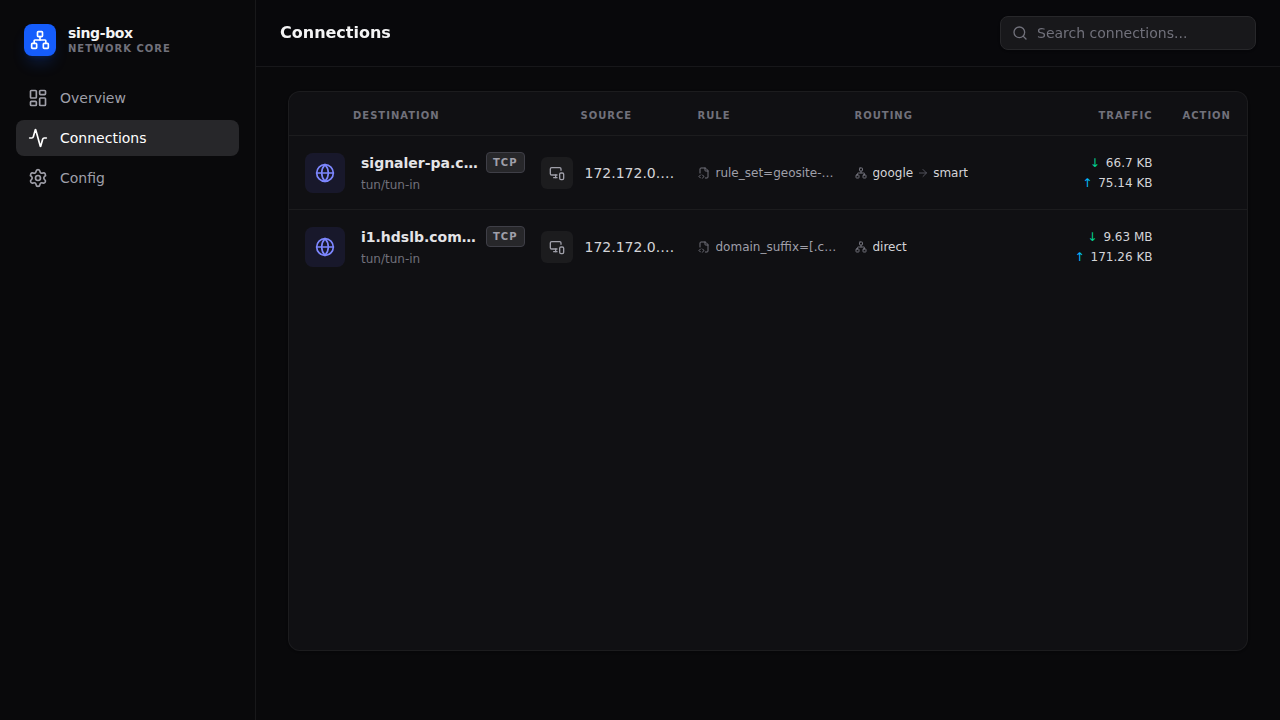
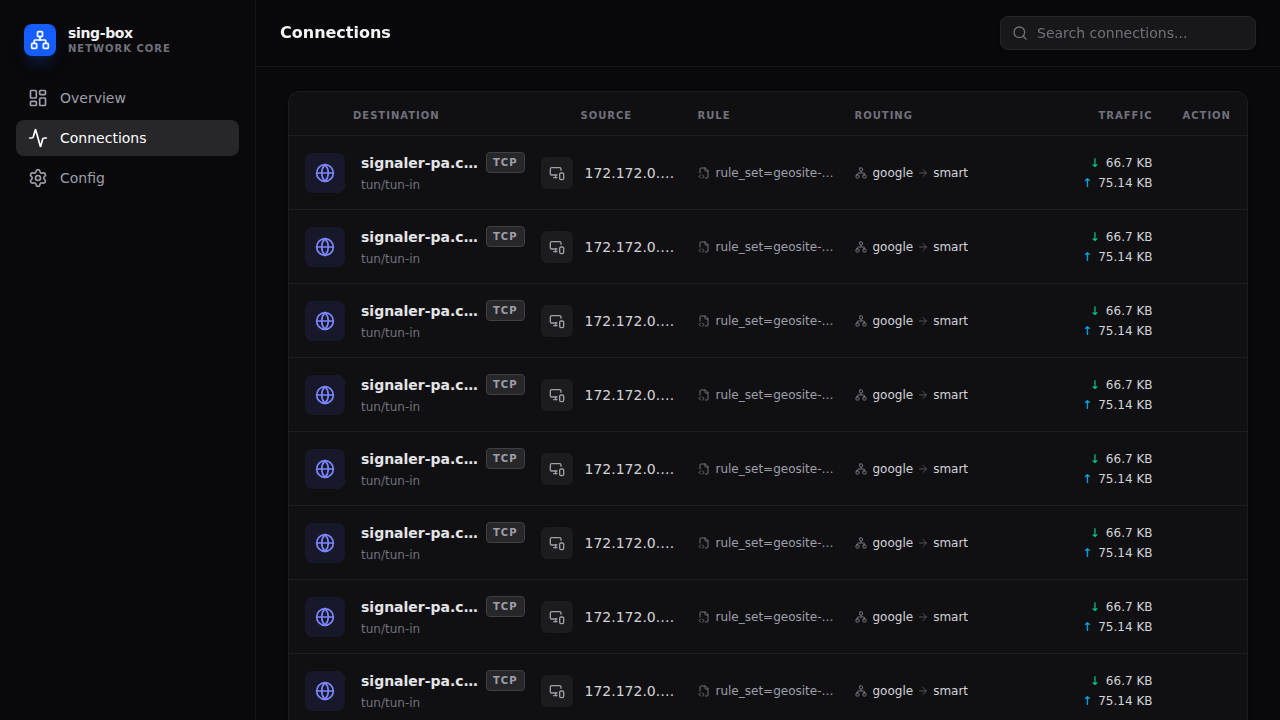
style: remove scroll view from connections list

diff --git a/web/mock-server.js b/web/mock-server.js
@@ -1,48 +1,32 @@
 import http from 'http';
 
+const baseConnection = {
+  "chains": ["smart", "google"],
+  "download": 68301,
+  "id": "325627fd-42fd-46be-beeb-25d9c5f62843",
+  "metadata": {
+    "destinationIP": "142.250.197.106",
+    "destinationPort": "443",
+    "dnsMode": "normal",
+    "host": "signaler-pa.clients6.google.com",
+    "network": "tcp",
+    "processPath": "",
+    "sourceIP": "172.172.0.1",
+    "sourcePort": "44600",
+    "type": "tun/tun-in"
+  },
+  "rule": "rule_set=geosite-google => route(google)",
+  "rulePayload": "",
+  "start": new Date(Date.now() - 50000).toISOString(),
+  "upload": 76948
+};
+
 const mockConnections = {
-  "connections": [
-    {
-      "chains": ["smart", "google"],
-      "download": 68301,
-      "id": "325627fd-42fd-46be-beeb-25d9c5f62843",
-      "metadata": {
-        "destinationIP": "142.250.197.106",
-        "destinationPort": "443",
-        "dnsMode": "normal",
-        "host": "signaler-pa.clients6.google.com",
-        "network": "tcp",
-        "processPath": "",
-        "sourceIP": "172.172.0.1",
-        "sourcePort": "44600",
-        "type": "tun/tun-in"
-      },
-      "rule": "rule_set=geosite-google => route(google)",
-      "rulePayload": "",
-      "start": new Date(Date.now() - 50000).toISOString(),
-      "upload": 76948
-    },
-    {
-      "chains": ["direct"],
-      "download": 10094688,
-      "id": "03a2ba3b-3344-4cfa-87da-caf8e9e8279b",
-      "metadata": {
-        "destinationIP": "183.214.153.60",
-        "destinationPort": "443",
-        "dnsMode": "normal",
-        "host": "i1.hdslb.com",
-        "network": "tcp",
-        "processPath": "",
-        "sourceIP": "172.172.0.1",
-        "sourcePort": "49904",
-        "type": "tun/tun-in"
-      },
-      "rule": "domain_suffix=[.cn canada.ca gc.ca...] rule_set=[geoip-cn geosite-cn] => route(direct)",
-      "rulePayload": "",
-      "start": new Date(Date.now() - 120000).toISOString(),
-      "upload": 175375
-    }
-  ],
+  "connections": Array.from({length: 30}, (_, i) => ({
+      ...baseConnection,
+      id: `id-${i}`,
+      metadata: { ...baseConnection.metadata, sourcePort: String(44600 + i) }
+  })),
   "downloadTotal": 6818055110,
   "memory": 25034752,
   "uploadTotal": 315720095

diff --git a/web/src/pages/Connections.tsx b/web/src/pages/Connections.tsx
@@ -138,7 +138,7 @@ export function Connections() {
 
     return (
         <>
-            <div className="bg-zinc-900/50 border border-zinc-800/50 rounded-xl overflow-hidden shadow-sm flex flex-col h-[calc(100vh-160px)]">
+            <div className="bg-zinc-900/50 border border-zinc-800/50 rounded-xl overflow-hidden shadow-sm flex flex-col">
                 <div className="w-full flex-1 flex flex-col">
                     {/* Header Columns */}
                     <div className="grid grid-cols-12 gap-4 pb-3 border-b border-zinc-800/50 text-[10px] font-bold text-zinc-500 uppercase tracking-widest px-4 pt-4 shrink-0">
@@ -150,7 +150,7 @@ export function Connections() {
                         <div className="col-span-2 sm:col-span-1 text-right">Action</div>
                     </div>
 
-                    <div className="divide-y divide-zinc-800/50 flex-1 overflow-y-auto custom-scrollbar">
+                    <div className="divide-y divide-zinc-800/50">
                         {isLoading && connections.length === 0 ? (
                             <div className="p-8 text-center text-zinc-500 text-sm">Loading connections...</div>
                         ) : connections.length === 0 ? (
